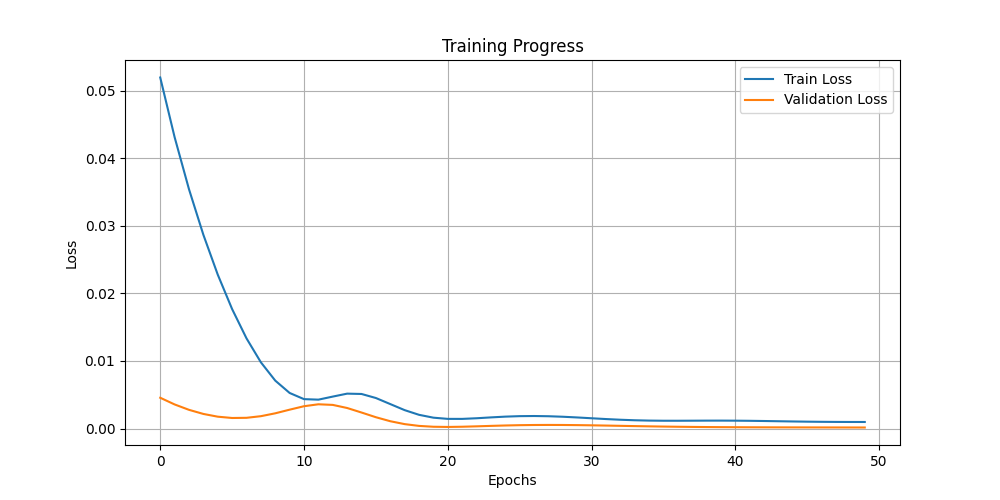
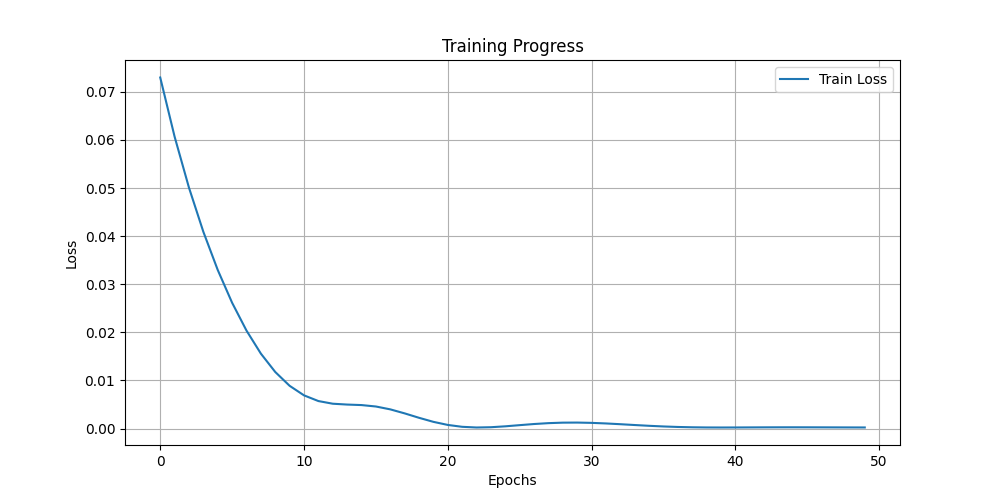
fixed test & train params

diff --git a/seqtoseq.py b/seqtoseq.py
@@ -132,17 +132,15 @@ def encoder_decoder_model(trainX,trainY,testX,testY, encoder_lstm_cells=64, deco
     # Compilation du modèle 
     model.compile(optimizer='adam', loss='mse', metrics=['mae'])
 
-    decoder_input_train = np.zeros_like(trainY)
-    decoder_input_test = np.zeros_like(testY)
 
     history = model.fit(
-        [trainX, decoder_input_train], trainY,
+        [trainX, trainY], trainY,
         epochs=epochs,
         batch_size=batch_size,
         validation_split=validation_split
     )
 
-    return model, history, decoder_input_train, decoder_input_test
+    return model, history
 
 
 def encoder_decoder_bidirectional_model(trainX,trainY,testX,testY, encoder_lstm_cells=64, decoder_lstm_cells=64, epochs= 50, batch_size=64, validation_split=0.1):
@@ -170,14 +168,17 @@ def encoder_decoder_bidirectional_model(trainX,trainY,testX,testY, encoder_lstm_
 # %%
 # predictions
 
-def prediction(model, trainX, trainY, testX, testY, decoder_input_train=None, decoder_input_test=None):
+def prediction(model, trainX, trainY, testX=None, testY=None):
     # predict test values
-    if decoder_input_train is None and decoder_input_test is None:
+    # Check if the model expects 2 inputs (seq2seq) or 1 input (simple LSTM)
+    if isinstance(model.input, list) and len(model.input) == 2:
+        print("Seq2Seq model detected. Using both encoder and decoder inputs.")
+        trainPredict = model.predict([trainX, trainY])
+        testPredict = model.predict([testX, testY])
+    else:
+        print("Simple LSTM model detected. Using only encoder inputs.")
         trainPredict = model.predict(trainX)
         testPredict = model.predict(testX)
-    else:    
-        trainPredict = model.predict([trainX, decoder_input_train])
-        testPredict = model.predict([testX, decoder_input_test])
     # inverse normalisation
     # Reshape the predictions and true values to 2D
     trainPredict_reshaped = trainPredict.reshape(-1, trainPredict.shape[-1])
@@ -267,7 +268,7 @@ def plotting_courbe_apprentissage(history):
     
     # Courbe de loss
     plt.plot(history.history['loss'], label='Train Loss')
-    plt.plot(history.history['val_loss'], label='Validation Loss')
+    #plt.plot(history.history['val_loss'], label='Validation Loss')
     
     plt.xlabel('Epochs')
     plt.ylabel('Loss')
@@ -283,9 +284,7 @@ def plotting_courbe_apprentissage(history):
 
 trainX, trainY, _, _ = preprocessing('datasets/outputs/cleaned_gpx.csv',seq_length=200)
 _, _, testX, testY = preprocessing('datasets/test/cleaned_gpx_test.csv', ratio_train=0)
-model, history = simple_lstm_model(trainX, trainY, testX, testY)
+model, history = encoder_decoder_model(trainX, trainY, testX, testY)
 plotting_courbe_apprentissage(history)
 testPredict, trainScore, testScore = prediction(model, trainX, trainY, testX, testY)
 plotting(testY,testPredict, max_points=100)
-
-# %%
